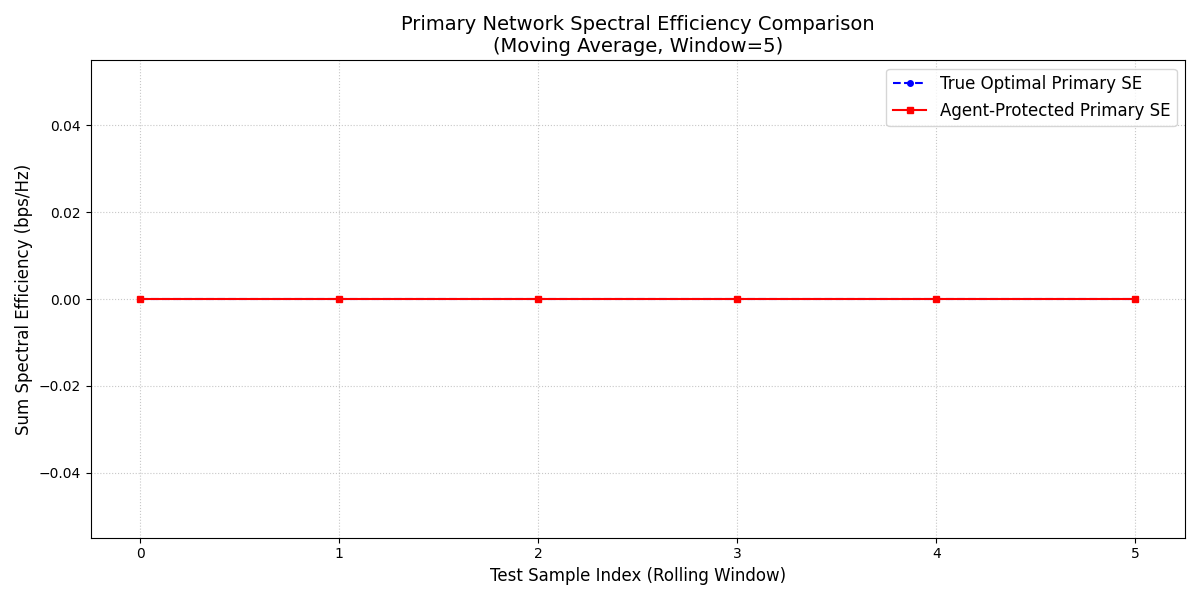
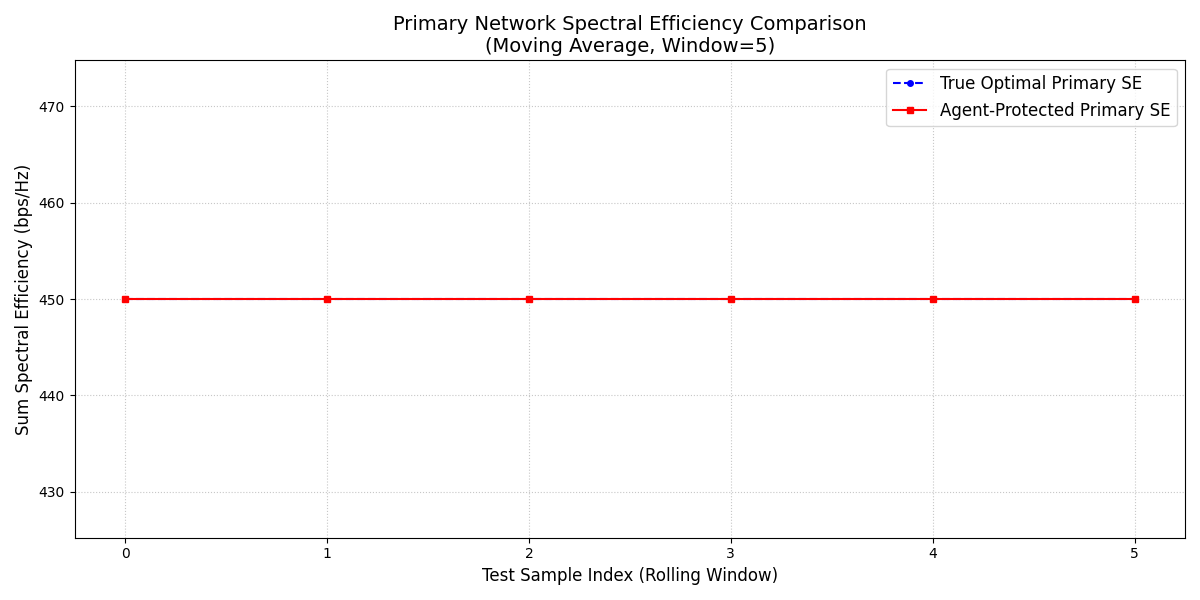
toto

diff --git a/5Agents_work_on_power_alloc/tets_critique_on_I.py b/5Agents_work_on_power_alloc/tets_critique_on_I.py
@@ -28,7 +28,7 @@ import math
 from dotenv import load_dotenv
 
 # number of primary receivers
-N = 4
+N = 3
 # number of secondary receivers
 M = 3
 
